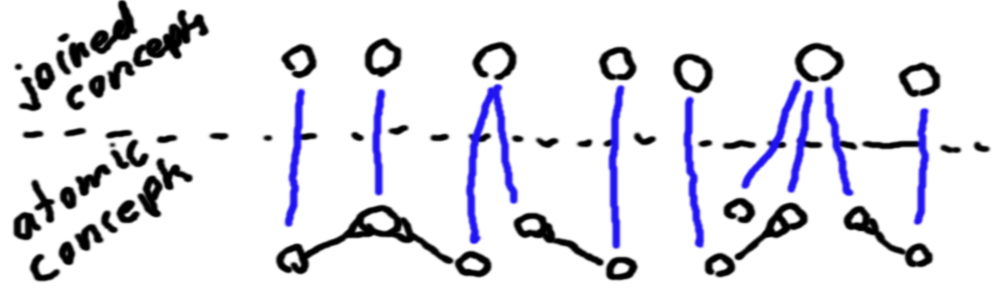
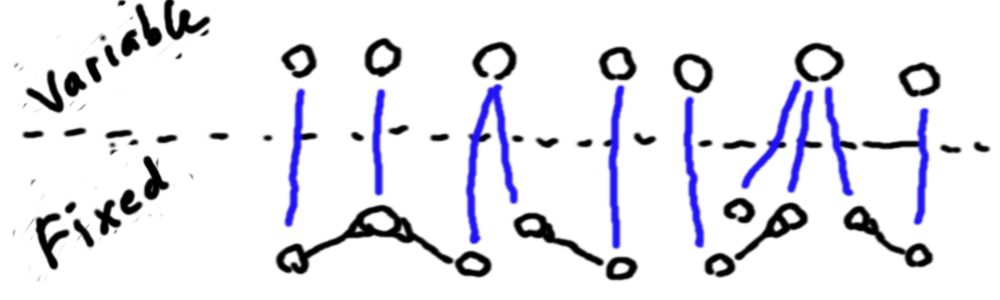
c

Changed region(s): [[0.0, 0.0, 0.217, 0.39], [0.0, 0.48, 0.217, 0.96]]

diff --git a/topics/graph/organizing/joined-concepts.md b/topics/graph/organizing/joined-concepts.md
@@ -1,5 +1,17 @@
-When new connections are added to a semantic network the question arises how to incorporate this new information in the already existing data without changing the identity of the already existing concepts.
+# Joined Concepts
 
-One way to handle this is to add an additional layer of joined concepts to the already existing atomic concepts. The idea behind this is, that the atomic concepts holds only the information of one or few connections connected to it but the joined concepts summ up one or many of these atomic concepts to an entity. Thereby the joined concepts are not saved in the database but instead constructed on the fly from the layer of atomic concepts.
+When new connections are added to the abstract representation of concepts in a semantic network the question arises how to incorporate this new information in the already existing data without changing the identity of the abstract concepts.
+
+One way to handle this is to distinguish between two layers of concepts: Variable concepts and fixed concepts. The fixed concepts always stay the same while the variable concepts are generated by an algorithm on the fly. Within the fixed concepts there are abstract concepts that represent an usually unknown concept. The abstract concepts can also hold some information about its subject. E.g. how it is connected to other concepts. It is possible, that two abstract concepts represent the same concept. Now the joined concepts are introduced which are variable concepts: Their task is to group together those abstract concepts which point to the same concepts and are them self abstract concepts pointing to it. In the ideal case different joined concepts always represent different concepts. 
 
 <img src="./images/joinedconcepts.png" width=100%>
+
+In this example each joined concept is the groups together one to three abstract concepts that are connected with a blue line to the joined concepts. This can be interpreted in a way that the atomic concepts, that are grouped together by the joined concept are abstractions of one single concept. The joined concept can therefore also be seen as abstraction of this single concept. Note that some of the abstract concepts in this example are constructed abstractions.
+
+The algorithm that decides what abstract concepts are joined together has to relay on information that is encoded within the fixed concepts. This can be for example naming or explicit "together" or "separate" information.
+
+<img src="./images/joincriteria.png" width=100%>
+
+In this example abstract concepts are grouped together if they have 
+    1) the same name N and are not marked as "separate" or 
+    2) if they are marked as "together"
